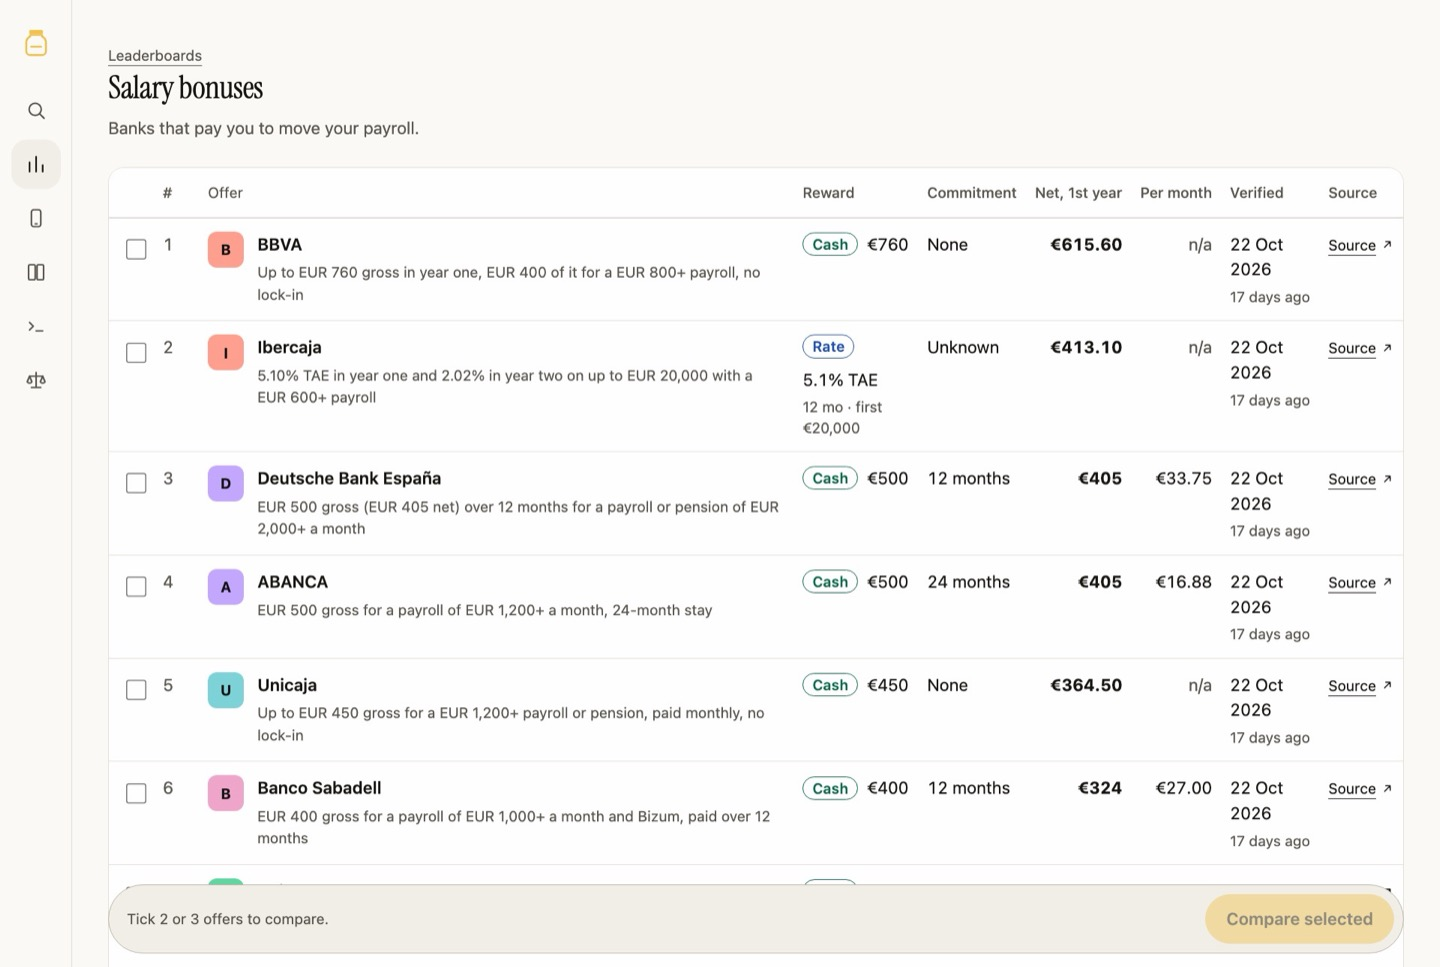
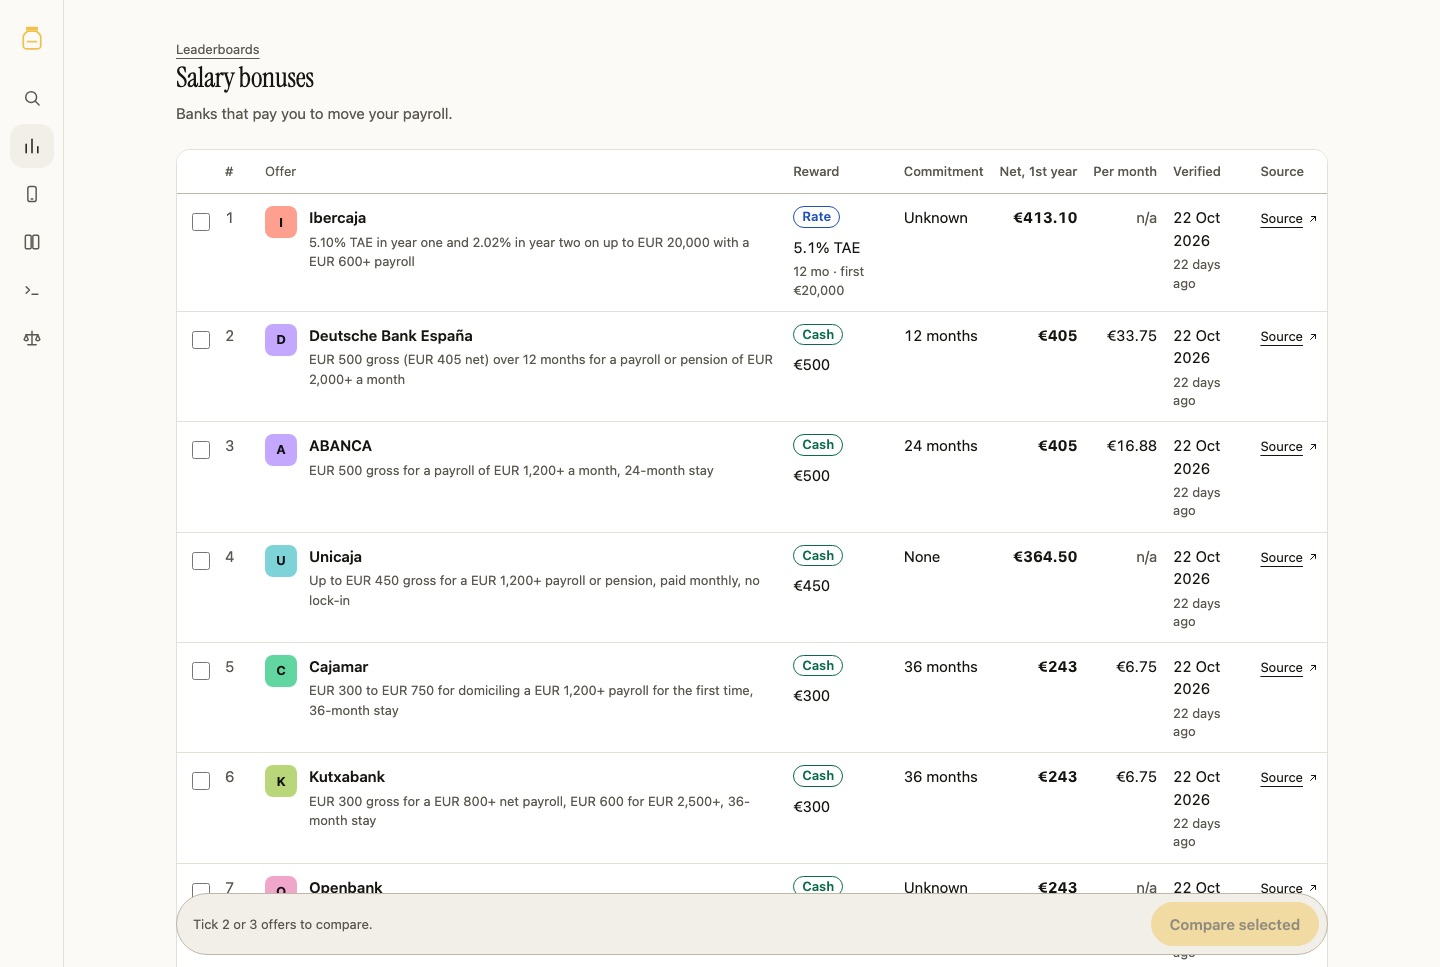
README: describe what ships today; re-capture the salary leaderboard
The opening left out AI search, bank apps and the offer count. The status line carried sprint history. The Claude directory listing, /connect, /api/v1/compare and /api/v1/goals were missing. The leaderboard screenshot still showed the BBVA offer (valid_until 2026-11-10) and Sabadell, which the live page no longer ranks.

diff --git a/README.md b/README.md
@@ -1,15 +1,14 @@
 # BankJar
 
-Find the bank offer that pays you most for what you want to do: move your salary, park your savings, open a free account.
-Ask in plain words. Get one comparison table where a €800 cash bonus over 12 months and a €1,500 phone over 36 months are on the same scale.
-
-Spain first. Open code (Apache-2.0) and open data (CC BY 4.0). Built for people and for AI agents.
+BankJar ranks 69 Spanish bank offers by what you want to do: move your salary, park savings, open a free account, take a deposit or a welcome bonus.
+Ask in plain words (AI search, with a rule parser as fallback) and get one table that puts every reward on the same first-year net scale.
+It also ranks 24 Spanish bank apps. Open code (Apache-2.0), open data (CC BY 4.0), for people and for AI agents.
 
 **Live: https://bankjar.fabriquefutur.com** · MCP: `https://bankjar.fabriquefutur.com/mcp`
 
 ![BankJar leaderboard for salary bonuses](docs/screenshots/leaderboard-salary.jpg)
 
-> Status: alpha, built in the night sprint of 2026-10-21. Offers carry a `verified_on` date; check the source link before you sign anything. Not financial advice.
+> Status: alpha, live on the web. Offers carry a `verified_on` date and leave the ranking 60 days after it (or at `valid_until`). Check the source link before you sign anything. Not financial advice.
 
 ## Quick start
 
@@ -32,7 +31,7 @@ The droplet has 1 GB of RAM and cannot compile Next, so the script builds on you
 
 ## What it does / doesn't
 
-- Does: rank Spanish bank offers by goal with one transparent formula; show every catch and the source; answer agents over JSON and MCP.
+- Does: rank Spanish bank offers by goal (salary, savings, account, deposit, welcome) with one transparent formula (`/methodology`); show every catch and the source; compare two to three offers side by side; answer agents over JSON and MCP.
 - Also: rank Spanish bank mobile apps (0 to 100 from store ratings, release freshness, reach and Bizum / Apple Pay / Google Pay / English) on `/apps`, at `/api/v1/apps` and with the MCP tool `rank_bank_apps`. One YAML per app in `data/apps/es/`; `npm run fetch-apps` refreshes the store numbers.
 - Doesn't: take paid placement, give personal financial advice, or invent numbers — the AI only parses your question and summarises rows from `data/`.
 
@@ -43,10 +42,11 @@ The droplet has 1 GB of RAM and cannot compile Next, so the script builds on you
 ```
 
 The plugin in `plugin/` adds the `bank-offers` skill and connects the public MCP server. No account or key. Details: [plugin/README.md](plugin/README.md).
+The BankJar connector is also in the [Claude directory](https://claude.ai/directory/connectors/bankjar). The page `/connect` shows how to add it to Claude, ChatGPT or Codex.
 
 ## For agents
 
-See `docs/ARCHITECTURE.md` → "For agents": `/api/v1/search`, `/api/v1/offers`, `/api/v1/apps`, `/openapi.json`, `/llms.txt`, `/data/offers.json`, and the MCP endpoint `/mcp`.
+See `docs/ARCHITECTURE.md` → "For agents": `/api/v1/search`, `/api/v1/offers`, `/api/v1/compare`, `/api/v1/goals`, `/api/v1/apps`, `/openapi.json`, `/llms.txt`, `/data/offers.json`, and the MCP endpoint `/mcp`.
 
 ## Report a wrong offer
 
@@ -75,3 +75,5 @@ The site has [privacy](https://bankjar.fabriquefutur.com/privacy), [terms](https
 ## Licence
 
 Code: Apache-2.0 (`LICENSE`). Data in `data/`: CC BY 4.0 (`data/LICENSE`).
+
+<!-- teyla:reviewed 2026-11-13 -->
